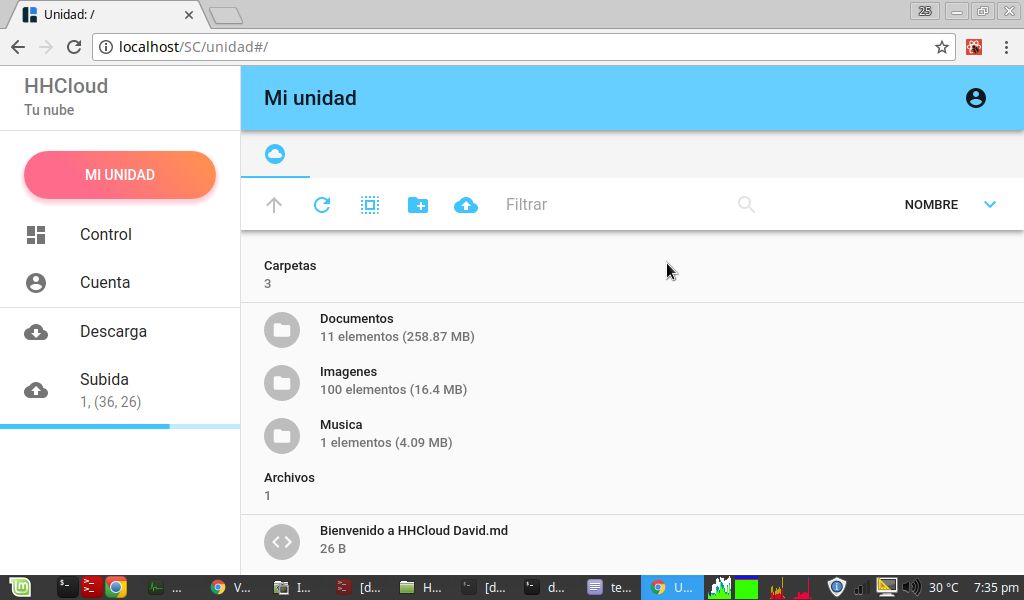
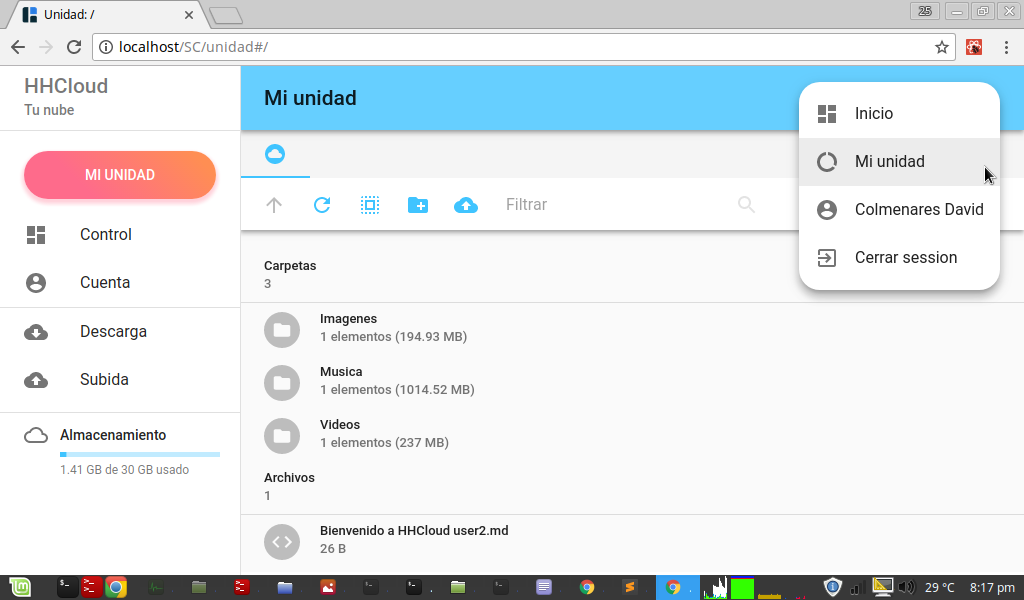
Agregado mini control 	modificado:    pimg.png 	nuevo archivo: src/App/components/index/MiniControl.jsx 	modificado:    src/App/components/main_cs/index.js 	modificado:    src/App/elements/API/v1/Api.js 	nuevo archivo: src/App/elements/auth/actions.js 	modificado:    src/App/elements/auth/index.js 	

diff --git a/src/App/components/index/MiniControl.jsx b/src/App/components/index/MiniControl.jsx
@@ -1,0 +1,141 @@
+
+import React,{Component} from "react"
+import {connect} from "react-redux"
+import {
+  push
+} from "react-router-redux";
+//import { RadialBarChart,RadialBar,Legend,Tooltip } from 'recharts';
+//import CircularProgress from '@material-ui/core/CircularProgress';
+import LinearProgress from '@material-ui/core/LinearProgress';
+import Typography from '@material-ui/core/Typography';
+import { withStyles } from '@material-ui/core/styles';
+import Paper from '@material-ui/core/Paper';
+import Divider from '@material-ui/core/Divider';
+import Grid from '@material-ui/core/Grid';
+import filesize from "filesize"
+import numeral from "numeral"
+import { Map } from "immutable";
+import CloudQueue from '@material-ui/icons/CloudQueue';
+const styles = theme => ({
+  root: {
+   	padding:theme.spacing.unit * 0,
+    flexGrow: 1,
+  },
+   paper: {
+    padding: theme.spacing.unit * 2,
+    //textAlign: 'center',
+    color: theme.palette.text.secondary,
+  },
+  withCenterText:{
+
+  	textAlign: 'center',
+  },
+  spaceConsumed:{
+  	textAlign: 'center',
+  //	margin: "0 auto",
+    //width: "150px"
+  },
+  spaceConsumedTitleInner:{
+  	top: "60px",
+    position: "relative",
+   // left: "39px"
+  },
+  progressTop:{
+  	zIndex: 1,
+    /* left: 37%; */
+    position: "absolute",
+    width: "100px",
+    height: "100px",
+  },
+  progressButton:{
+  	color:"rgb(242, 242, 242)"
+  },
+  iconContent:{
+  	[theme.breakpoints.up("md")]:{
+  		paddingLeft: theme.spacing.unit*3, paddingRight: theme.spacing.unit*3
+  	},
+  	paddingLeft: theme.spacing.unit*2, paddingRight: theme.spacing.unit*2
+  	
+  }
+});
+
+@withStyles(styles,{withTheme:true})
+class MiDivider extends Component{
+	render(){
+		const {title} = this.props
+		return (
+			<div style={{margin:"20px"}}>
+				<Typography variant="title">{title}</Typography>
+				<Divider  />
+
+			</div>
+		)
+	}
+}
+
+
+@withStyles(styles,{withTheme:true})
+@connect((state : Map, props)=>{
+	const user=state.getIn(["auth","dataUser","user"],null);
+	const summary=state.getIn(["auth","dataUser","contentSummary"],null);
+
+	if(summary==null||user==null){
+		return {
+			user:{emailVerified:true},
+			summary: {
+				"directoryCount": 0,
+				"fileCount": 0,
+				"length": 0,
+				"spaceQuota": 0,
+				"spaceConsumed": 0,
+				"quota": -1
+			}
+		}
+	}
+	return {summary:summary.toJSON(),user:user.toJSON()}
+})
+class MiniControl extends Component{
+
+
+	_toView(summary){
+		return parseInt(summary.length*100/summary.spaceQuota)
+	}
+
+	render(){
+		const {classes,summary,user} = this.props
+
+		const {emailVerified} = user;
+
+		return (
+
+		<div className={classes.root}>
+		    
+
+        <Grid container style={{paddingTop:10}}>
+          <Grid item xs={3} className={classes.iconContent}>
+          	<CloudQueue color={"action"}/>
+          </Grid>
+          <Grid item xs={9} >
+             <Grid container style={{paddingRight:20}}>
+             	<Grid item xs={12} style={{ marginBottom: 5}}>
+             		<Typography variant="body2">Almacenamiento</Typography>
+             	</Grid>
+             	<Grid item xs={12} style={{ marginBottom: 5}}>
+	            	<div>
+	                	<LinearProgress  variant="determinate" value={this._toView(summary)}/>
+	              	</div>
+             	</Grid>
+             	<Grid item xs={12}>
+             		<Typography variant="caption">{`${filesize(summary.length)} de ${filesize(summary.spaceQuota)} usado`}</Typography>
+             	</Grid>
+             </Grid>
+          </Grid>
+
+        </Grid>
+			</div>
+
+			)
+	}
+}
+
+export default MiniControl;

diff --git a/src/App/elements/API/v1/Api.js b/src/App/elements/API/v1/Api.js
@@ -4,7 +4,8 @@ import RenameOperation from "./operations/RenameOperation.js"
 import MkDirOperation from "./operations/MkDirOperation.js"
 import DeleteOperation from "./operations/DeleteOperation.js"
 import DownloadOperation from "./operations/DownloadOperation.js"
-//import {auth} from "../../auth/index.js";
+//import {Auth} from "../../auth/index.js";
+import {setUserData} from "../../auth/actions.js";
 import {move,copy} from "./operations/MoveOrCopyOperation.js"
 
 import { ChangePasswordByRecoverOperation } from "./user/ChangePasswordByRecoverOperation";
@@ -47,7 +48,13 @@ class Api {
 		this.registerOperation("mkdir", MkDirOperation)
 		this.registerOperation("copy", copy())
 		this.registerOperation("move", move())
-		this.registerOperation("delete", DeleteOperation)
+		this.registerOperation("delete", DeleteOperation, {after: _ => {
+				
+			setTimeout(_=>{
+				this.callOperation("accountstatus",{thenCB:as=>store.dispatch(setUserData(as))})
+			},2000)
+
+		}});
 		this.registerOperation("download", DownloadOperation)
 		this.registerOperation("accountstatus", GetAccountStatusOperation)
 		this.registerOperation("login", SignInOperation)
@@ -66,7 +73,7 @@ class Api {
 		//return
 		const auth = store.getState().get("auth");
 
-		const dataUser = auth.get("dataUser", null);
+		const dataUser = auth.getIn(["dataUser","user"], null);
 		var displayName = "";
 		if (dataUser != null) {
 			this.userid = dataUser.get("id")
@@ -80,13 +87,19 @@ class Api {
 		if (op == null) {
 			throw `operaion no ${name} existe`
 		} else {
-			return new op(args);
+			op["before"](args);
+			let opObject = new op["op"](args);
+			op["after"](args);
+			return opObject;
 		}
 
 	}
 
-	registerOperation(name, Operation) {
-		this.operations[name] = Operation;
+	registerOperation(name, Operation, feactures={}) {
+		this.operations[name] = {};
+		this.operations[name]["op"] = Operation;
+		this.operations[name]["before"] = feactures.before != null ? feactures.before : _=>{} ;
+		this.operations[name]["after"] = feactures.after != null ? feactures.after : _=>{};
 	}
 
      fetch({apiArg},api = API_DEFAULT, method = API_DEFAULT_METHOD){

diff --git a/src/App/elements/auth/index.js b/src/App/elements/auth/index.js
@@ -10,7 +10,11 @@ import {
 	store
 } from "../../redux/index.js"
 import { AuthObject } from "./AuthObject";
-
+import {
+	clearState,
+	setState,
+	setUserData
+} from "./actions.js"
 
 class Auth {
 
@@ -20,27 +24,12 @@ class Auth {
 
 		this.signIn().then(x => {
 			if ((x.login)) {
-				store.dispatch({
-					type: "AUTH_SET_STATE",
-					payload: {
-						state: STATES[1]
-					}
-				});
+				store.dispatch(setState(STATES[1]));
 			}else{
-				store.dispatch({
-					type: "AUTH_SET_STATE",
-					payload: {
-						state: STATES[2]
-					}
-				});
+				store.dispatch(setState(STATES[2]));
 			}
 		}).catch(x => {
-			store.dispatch({
-				type: "AUTH_SET_STATE",
-				payload: {
-					state: STATES[2]
-				}
-			});
+			store.dispatch(setState(STATES[2]));
 		})
 
 	}
@@ -104,9 +93,9 @@ class Auth {
 				email:username,
 				password,
 				remember,
-				thenCB: accountstatus => {
-					this.onLogin(accountstatus);	
-					resolve(accountstatus);
+				thenCB: authobject => {
+					this.onLogin(authobject);	
+					resolve(authobject);
 				},
 				catchCB: x => reject(x)
 			})

diff --git a/src/App/elements/auth/reducers.js b/src/App/elements/auth/reducers.js
@@ -3,19 +3,26 @@ import {
 	fromJS
 } from "immutable";
 import initState,{STATES} from "./state.js"
-
+import {
+	CLEAR_STATE,
+	AUTH_SET_STATE,
+	AUTH_SETUSERDATA,
+	clearState,
+	setState,
+	setUserData
+} from "./actions.js"
 
 export default (state = new Map(), action) => {
 	//console.warn(state)
 	switch (action.type) {
-		case "CLEAR_STATE":			
+		case CLEAR_STATE:			
 			let iState = { ...initState, state: STATES["2"] };
 			return fromJS(iState);
-		case "AUTH_SET_STATE":
+		case AUTH_SET_STATE:
 			return state.set("state", action.payload.state)
 		case "AUTH_SETLOGIN":
 			return state.set("isLogin", action.payload.isLogin)
-		case "AUTH_SETUSERDATA":
+		case AUTH_SETUSERDATA:
 			return state.set("dataUser", fromJS(action.payload.userdata))
 		case "AUTH_SETUSERDATA_STORAGE":
 					return state.setIn(["dataUser","contentSummary"], fromJS(action.payload.contentSummary))

diff --git a/src/App/elements/upload_manager/middleware.js b/src/App/elements/upload_manager/middleware.js
@@ -3,7 +3,8 @@
 import { UPLOAD_MANAGER, ADD_UPLOAD, END_UPLOAD ,endUpload} from "./action";
 import { Map } from "immutable";
 import { fetchingPath } from "../../components/explorer/actions";
-
+import ApiInstance from "../API/v1/Api.js"
+import {setUserData} from "../auth/actions.js"
 
 export default store => next => action => {
 
@@ -15,6 +16,11 @@ export default store => next => action => {
        
         if (action.type == END_UPLOAD) {
             store.dispatch(fetchingPath(action.up.getPath()))
+            
+            setTimeout(_=>{
+				ApiInstance.instance.callOperation("accountstatus",{thenCB:as=>store.dispatch(setUserData(as))})
+			},2000)
+            
             setTimeout(_=>{                
                 next(action);                
             },1000)

diff --git a/src/App/components/main_cs/index.js b/src/App/components/main_cs/index.js
@@ -22,7 +22,7 @@ import { Route, Switch } from "react-router-dom";
 import logo from "../../../media/img/logop.png";
 import Nav from "../nav_cs/index.js";
 import SideVarContent from './titleData.js';
-
+import MiniControl from "../index/MiniControl.jsx"
 function Loading(props) {
   if (props.error) {
     return <div>Error! <button onClick={props.retry}>Retry</button></div>;
@@ -188,6 +188,8 @@ class ResponsiveDrawer extends React.Component {
         </div>
         <Divider />
         <List><SideVarContent /></List>
+        <Divider />
+        <MiniControl/>
 
         {/**<div id="footer" className={classes.footer} >
           <div className={classes.footer}>

diff --git a/src/App/elements/auth/actions.js b/src/App/elements/auth/actions.js
@@ -1,0 +1,32 @@
+const AUTH_SETUSERDATA = "AUTH_SETUSERDATA"
+const AUTH_SET_STATE = "AUTH_SET_STATE"
+const CLEAR_STATE = "CLEAR_STATE"
+
+import AccountStatus from "../API/v1/user/AccountStatus.js"
+
+const setUserData = (accountstatus:AccountStatus) => ({
+	type: AUTH_SETUSERDATA,
+	payload: {
+		userdata: accountstatus.toObject()
+	}
+})
+
+const setState = state => ({
+	type: AUTH_SET_STATE,
+	payload: {
+		state
+	}
+})
+
+const clearState = _ => ({
+	type: CLEAR_STATE
+})
+
+export {
+	CLEAR_STATE,
+	AUTH_SET_STATE,
+	AUTH_SETUSERDATA,
+	clearState,
+	setState,
+	setUserData
+}
